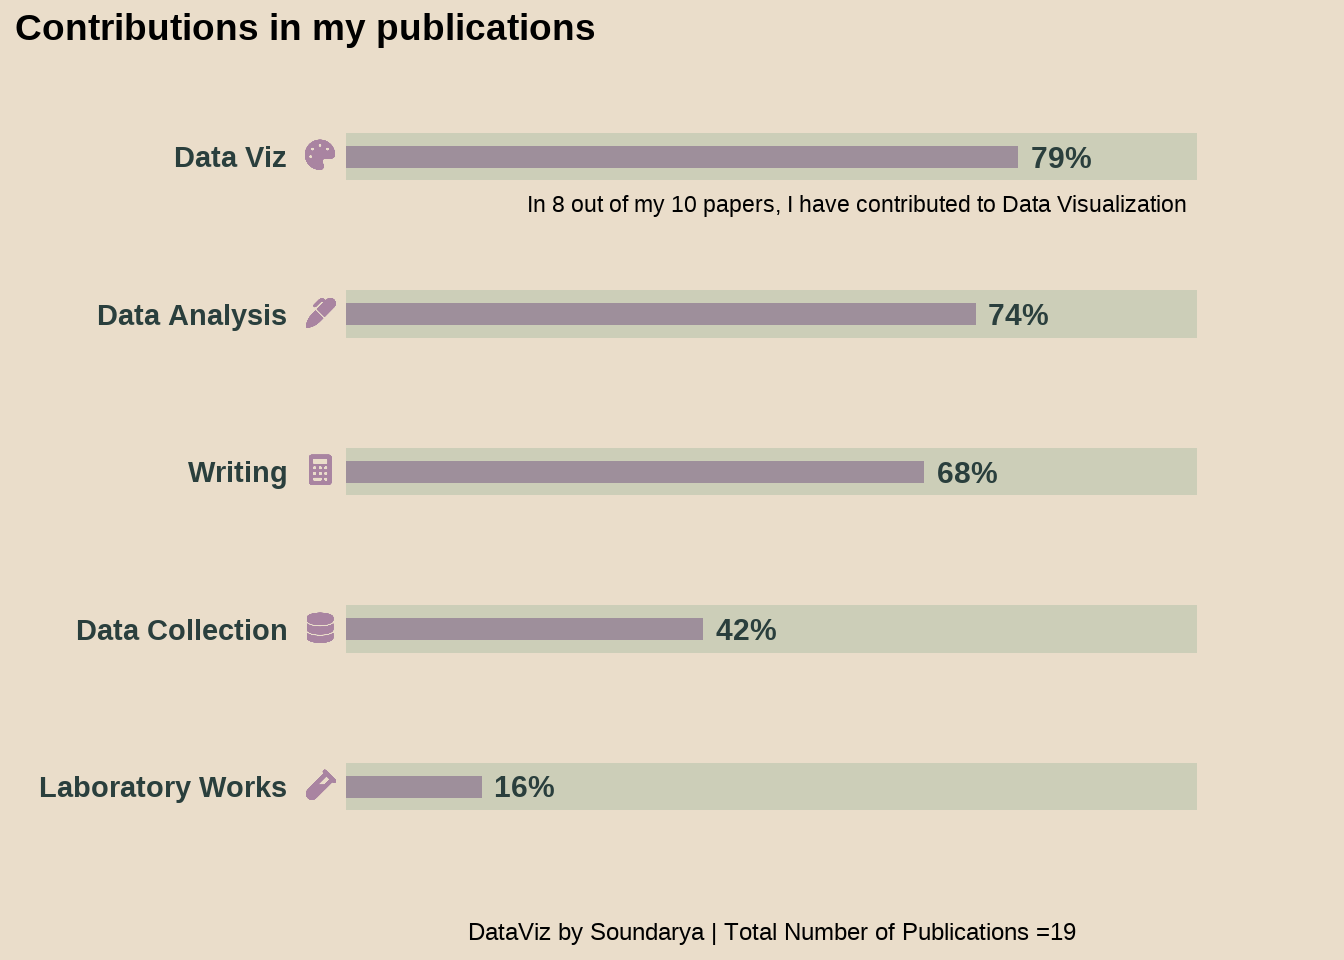
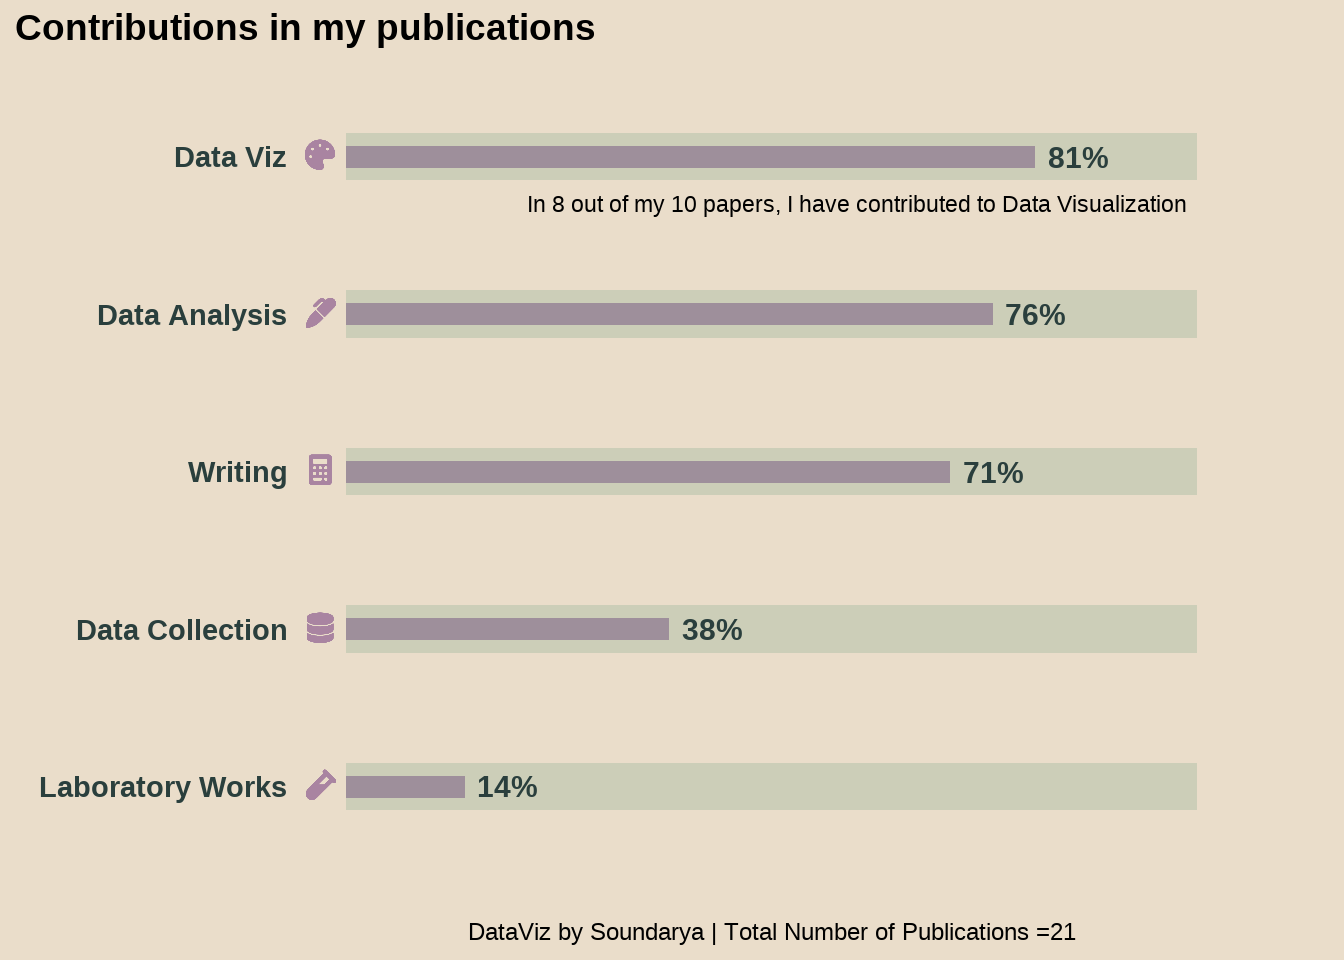
added mindfulness and clim change cvd preprints and obesity oxistress from work citation updated

diff --git a/_site/publications.html b/_site/publications.html
@@ -198,8 +198,27 @@ div.csl-indent {
 <svg aria-hidden="true" role="img" viewbox="0 0 512 512" style="height:1em;width:1em;vertical-align:-0.125em;margin-left:auto;margin-right:auto;font-size:inherit;fill:#a984a1;overflow:visible;position:relative;"><path d="M481 31C445.1-4.8 386.9-4.8 351 31l-15 15L322.9 33C294.8 4.9 249.2 4.9 221.1 33L135 119c-9.4 9.4-9.4 24.6 0 33.9s24.6 9.4 33.9 0L255 66.9c9.4-9.4 24.6-9.4 33.9 0L302.1 80 186.3 195.7 316.3 325.7 481 161c35.9-35.9 35.9-94.1 0-129.9zM293.7 348.3L163.7 218.3 99.5 282.5c-48 48-80.8 109.2-94.1 175.8l-5 25c-1.6 7.9 .9 16 6.6 21.7s13.8 8.1 21.7 6.6l25-5c66.6-13.3 127.8-46.1 175.8-94.1l64.2-64.2z"></path></svg>
 </div>
 </div>
-</div></div><ol start="19" type="1">
-<li>Survival analysis shows tuberculosis patients with silicosis experience earlier mortality and need employer-led care models in occupational settings in India <span class="citation" data-cites="RupaniSurvivalanalysis2024">(<a href="#ref-RupaniSurvivalanalysis2024" role="doc-biblioref">Rupani and Soundararajan 2024</a>)</span>.</li>
+</div></div><ol start="21" type="1">
+<li>Modelling the Relationship Between Extreme Temperature Metrics and Cardiovascular Disease Burden in India: Insights from a Multi-State Study on Climate Change Challenges for 2011 -2019 <a href="https://papers.ssrn.com/sol3/papers.cfm?abstract_id=5140985">Preprint</a><span class="citation" data-cites="SoundararajanModellingRelationship2024">(<a href="#ref-SoundararajanModellingRelationship2024" role="doc-biblioref">Soundararajan et al., n.d.</a>)</span></li>
+</ol>
+<div>
+
+</div>
+
+<div class="no-row-height column-margin column-container"><div class="cell quarto-layout-panel" data-layout-nrow="1">
+<div class="quarto-layout-row">
+<div class="quarto-layout-cell" style="flex-basis: 33.3%;justify-content: flex-start;">
+<svg aria-hidden="true" role="img" viewbox="0 0 384 512" style="height:1em;width:0.75em;vertical-align:-0.125em;margin-left:auto;margin-right:auto;font-size:inherit;fill:#a984a1;overflow:visible;position:relative;"><path d="M64 0C28.7 0 0 28.7 0 64V448c0 35.3 28.7 64 64 64H320c35.3 0 64-28.7 64-64V64c0-35.3-28.7-64-64-64H64zM96 64H288c17.7 0 32 14.3 32 32v32c0 17.7-14.3 32-32 32H96c-17.7 0-32-14.3-32-32V96c0-17.7 14.3-32 32-32zm32 160a32 32 0 1 1 -64 0 32 32 0 1 1 64 0zM96 352a32 32 0 1 1 0-64 32 32 0 1 1 0 64zM64 416c0-17.7 14.3-32 32-32h96c17.7 0 32 14.3 32 32s-14.3 32-32 32H96c-17.7 0-32-14.3-32-32zM192 256a32 32 0 1 1 0-64 32 32 0 1 1 0 64zm32 64a32 32 0 1 1 -64 0 32 32 0 1 1 64 0zm64-64a32 32 0 1 1 0-64 32 32 0 1 1 0 64zm32 64a32 32 0 1 1 -64 0 32 32 0 1 1 64 0zM288 448a32 32 0 1 1 0-64 32 32 0 1 1 0 64z"></path></svg>
+</div>
+<div class="quarto-layout-cell" style="flex-basis: 33.3%;justify-content: flex-start;">
+<svg aria-hidden="true" role="img" viewbox="0 0 512 512" style="height:1em;width:1em;vertical-align:-0.125em;margin-left:auto;margin-right:auto;font-size:inherit;fill:#a984a1;overflow:visible;position:relative;"><path d="M512 256c0 .9 0 1.8 0 2.7c-.4 36.5-33.6 61.3-70.1 61.3H344c-26.5 0-48 21.5-48 48c0 3.4 .4 6.7 1 9.9c2.1 10.2 6.5 20 10.8 29.9c6.1 13.8 12.1 27.5 12.1 42c0 31.8-21.6 60.7-53.4 62c-3.5 .1-7 .2-10.6 .2C114.6 512 0 397.4 0 256S114.6 0 256 0S512 114.6 512 256zM128 288a32 32 0 1 0 -64 0 32 32 0 1 0 64 0zm0-96a32 32 0 1 0 0-64 32 32 0 1 0 0 64zM288 96a32 32 0 1 0 -64 0 32 32 0 1 0 64 0zm96 96a32 32 0 1 0 0-64 32 32 0 1 0 0 64z"></path></svg>
+</div>
+<div class="quarto-layout-cell" style="flex-basis: 33.3%;justify-content: flex-start;">
+<svg aria-hidden="true" role="img" viewbox="0 0 512 512" style="height:1em;width:1em;vertical-align:-0.125em;margin-left:auto;margin-right:auto;font-size:inherit;fill:#a984a1;overflow:visible;position:relative;"><path d="M481 31C445.1-4.8 386.9-4.8 351 31l-15 15L322.9 33C294.8 4.9 249.2 4.9 221.1 33L135 119c-9.4 9.4-9.4 24.6 0 33.9s24.6 9.4 33.9 0L255 66.9c9.4-9.4 24.6-9.4 33.9 0L302.1 80 186.3 195.7 316.3 325.7 481 161c35.9-35.9 35.9-94.1 0-129.9zM293.7 348.3L163.7 218.3 99.5 282.5c-48 48-80.8 109.2-94.1 175.8l-5 25c-1.6 7.9 .9 16 6.6 21.7s13.8 8.1 21.7 6.6l25-5c66.6-13.3 127.8-46.1 175.8-94.1l64.2-64.2z"></path></svg>
+</div>
+</div>
+</div></div><ol start="20" type="1">
+<li>Effectiveness Of Mindfulness Interventions in Reducing Perceived Stress Among Nurses- A Systematic Review and Meta-Analysis <a href="https://www.researchsquare.com/article/rs-5720527/v1">Preprint</a> <span class="citation" data-cites="RamEffectivenessMindfulness2024">(<a href="#ref-RamEffectivenessMindfulness2024" role="doc-biblioref">Ram, Balachandar, and Soundararajan, n.d.</a>)</span></li>
 </ol>
 <div>
 
@@ -220,8 +239,27 @@ div.csl-indent {
 <svg aria-hidden="true" role="img" viewbox="0 0 512 512" style="height:1em;width:1em;vertical-align:-0.125em;margin-left:auto;margin-right:auto;font-size:inherit;fill:#a984a1;overflow:visible;position:relative;"><path d="M481 31C445.1-4.8 386.9-4.8 351 31l-15 15L322.9 33C294.8 4.9 249.2 4.9 221.1 33L135 119c-9.4 9.4-9.4 24.6 0 33.9s24.6 9.4 33.9 0L255 66.9c9.4-9.4 24.6-9.4 33.9 0L302.1 80 186.3 195.7 316.3 325.7 481 161c35.9-35.9 35.9-94.1 0-129.9zM293.7 348.3L163.7 218.3 99.5 282.5c-48 48-80.8 109.2-94.1 175.8l-5 25c-1.6 7.9 .9 16 6.6 21.7s13.8 8.1 21.7 6.6l25-5c66.6-13.3 127.8-46.1 175.8-94.1l64.2-64.2z"></path></svg>
 </div>
 </div>
+</div></div><ol start="19" type="1">
+<li>Obesity, Oxidative Stress, and the Moderating Role of Overcommitment: An Exploratory Analysis in Female Nurses from Western India. <span class="citation" data-cites="SinghObesityoxidative2025">(<a href="#ref-SinghObesityoxidative2025" role="doc-biblioref">Singh et al. 2025</a>)</span></li>
+</ol>
+<div>
+
+</div>
+
+<div class="no-row-height column-margin column-container"><div class="cell quarto-layout-panel" data-layout-nrow="1">
+<div class="quarto-layout-row">
+<div class="quarto-layout-cell" style="flex-basis: 33.3%;justify-content: flex-start;">
+<svg aria-hidden="true" role="img" viewbox="0 0 384 512" style="height:1em;width:0.75em;vertical-align:-0.125em;margin-left:auto;margin-right:auto;font-size:inherit;fill:#a984a1;overflow:visible;position:relative;"><path d="M64 0C28.7 0 0 28.7 0 64V448c0 35.3 28.7 64 64 64H320c35.3 0 64-28.7 64-64V64c0-35.3-28.7-64-64-64H64zM96 64H288c17.7 0 32 14.3 32 32v32c0 17.7-14.3 32-32 32H96c-17.7 0-32-14.3-32-32V96c0-17.7 14.3-32 32-32zm32 160a32 32 0 1 1 -64 0 32 32 0 1 1 64 0zM96 352a32 32 0 1 1 0-64 32 32 0 1 1 0 64zM64 416c0-17.7 14.3-32 32-32h96c17.7 0 32 14.3 32 32s-14.3 32-32 32H96c-17.7 0-32-14.3-32-32zM192 256a32 32 0 1 1 0-64 32 32 0 1 1 0 64zm32 64a32 32 0 1 1 -64 0 32 32 0 1 1 64 0zm64-64a32 32 0 1 1 0-64 32 32 0 1 1 0 64zm32 64a32 32 0 1 1 -64 0 32 32 0 1 1 64 0zM288 448a32 32 0 1 1 0-64 32 32 0 1 1 0 64z"></path></svg>
+</div>
+<div class="quarto-layout-cell" style="flex-basis: 33.3%;justify-content: flex-start;">
+<svg aria-hidden="true" role="img" viewbox="0 0 512 512" style="height:1em;width:1em;vertical-align:-0.125em;margin-left:auto;margin-right:auto;font-size:inherit;fill:#a984a1;overflow:visible;position:relative;"><path d="M512 256c0 .9 0 1.8 0 2.7c-.4 36.5-33.6 61.3-70.1 61.3H344c-26.5 0-48 21.5-48 48c0 3.4 .4 6.7 1 9.9c2.1 10.2 6.5 20 10.8 29.9c6.1 13.8 12.1 27.5 12.1 42c0 31.8-21.6 60.7-53.4 62c-3.5 .1-7 .2-10.6 .2C114.6 512 0 397.4 0 256S114.6 0 256 0S512 114.6 512 256zM128 288a32 32 0 1 0 -64 0 32 32 0 1 0 64 0zm0-96a32 32 0 1 0 0-64 32 32 0 1 0 0 64zM288 96a32 32 0 1 0 -64 0 32 32 0 1 0 64 0zm96 96a32 32 0 1 0 0-64 32 32 0 1 0 0 64z"></path></svg>
+</div>
+<div class="quarto-layout-cell" style="flex-basis: 33.3%;justify-content: flex-start;">
+<svg aria-hidden="true" role="img" viewbox="0 0 512 512" style="height:1em;width:1em;vertical-align:-0.125em;margin-left:auto;margin-right:auto;font-size:inherit;fill:#a984a1;overflow:visible;position:relative;"><path d="M481 31C445.1-4.8 386.9-4.8 351 31l-15 15L322.9 33C294.8 4.9 249.2 4.9 221.1 33L135 119c-9.4 9.4-9.4 24.6 0 33.9s24.6 9.4 33.9 0L255 66.9c9.4-9.4 24.6-9.4 33.9 0L302.1 80 186.3 195.7 316.3 325.7 481 161c35.9-35.9 35.9-94.1 0-129.9zM293.7 348.3L163.7 218.3 99.5 282.5c-48 48-80.8 109.2-94.1 175.8l-5 25c-1.6 7.9 .9 16 6.6 21.7s13.8 8.1 21.7 6.6l25-5c66.6-13.3 127.8-46.1 175.8-94.1l64.2-64.2z"></path></svg>
+</div>
+</div>
 </div></div><ol start="18" type="1">
-<li>Obesity, Oxidative Stress, and the Moderating Role of Overcommitment: An Exploratory Analysis in Female Nurses from Western India. https://doi.org/10.31219/osf.io/2uhkf <span class="citation" data-cites="singh2024">(<a href="#ref-singh2024" role="doc-biblioref">Singh et al. 2024</a>)</span></li>
+<li>Survival analysis shows tuberculosis patients with silicosis experience earlier mortality and need employer-led care models in occupational settings in India <span class="citation" data-cites="RupaniSurvivalanalysis2024">(<a href="#ref-RupaniSurvivalanalysis2024" role="doc-biblioref">Rupani and Soundararajan 2024</a>)</span>.</li>
 </ol>
 <div>
 
@@ -553,11 +591,14 @@ Klepp, T. D., M. E. Sloan, Soundarya Soundararajan, C. E. Ramsden, R. Cinar, M. 
 <div id="ref-mythri2017manganese1methyl4phenylpyridiniuminducedneurotoxicity" class="csl-entry" role="listitem">
 Mythri, Rajeswara Babu, Narayana Reddy Raghunath, Santosh Chandrakant Narwade, Mirazkar Dasharatha Rao Pandareesh, Kollarkandi Rajesh Sabitha, Mohamad Aiyaz, Bipin Chand, et al. 2017. <span>“Manganese- and 1-Methyl-4-Phenylpyridinium-Induced Neurotoxicity Display Differences in Morphological, Electrophysiological and Genome-Wide Alterations: Implications for Idiopathic Parkinson’s Disease.”</span> <em>Journal of Neurochemistry</em> 143 (3): 334–58. <a href="https://doi.org/10.1111/jnc.14147">https://doi.org/10.1111/jnc.14147</a>.
 </div>
+<div id="ref-RamEffectivenessMindfulness2024" class="csl-entry" role="listitem">
+Ram, Ekta, Rakesh Balachandar, and Soundarya Soundararajan. n.d. <span>“Effectiveness of Mindfulness Interventions in Reducing Perceived Stress Among Nurses- a Systematic Review and Meta-Analysis.”</span> <a href="https://doi.org/10.21203/rs.3.rs-5720527/v1">https://doi.org/10.21203/rs.3.rs-5720527/v1</a>.
+</div>
 <div id="ref-RupaniSurvivalanalysis2024" class="csl-entry" role="listitem">
 Rupani, Mihir P., and Soundarya Soundararajan. 2024. <span>“Survival Analysis Shows Tuberculosis Patients with Silicosis Experience Earlier Mortality and Need Employer-Led Care Models in Occupational Settings in India.”</span> <em>Scientific Reports</em> 14 (1): 28891. <a href="https://doi.org/10.1038/s41598-024-80367-5">https://doi.org/10.1038/s41598-024-80367-5</a>.
 </div>
-<div id="ref-singh2024" class="csl-entry" role="listitem">
-Singh, Gyanendra, Ankit Viramgami, Bela Makwana, Sukhdev Mishra, Viral Dave, and Soundarya Soundararajan. 2024. <em>Obesity, Oxidative Stress, and the Moderating Role of Overcommitment: An Exploratory Analysis in Female Nurses from Western India</em>. <a href="https://doi.org/10.31219/osf.io/2uhkf">https://doi.org/10.31219/osf.io/2uhkf</a>.
+<div id="ref-SinghObesityoxidative2025" class="csl-entry" role="listitem">
+Singh, Gyanendra, Ankit Viramgami, Bela Makwana, Sukhdev Mishra, Viral Dave, and Soundarya Soundararajan. 2025. <span>“Obesity, Oxidative Stress, and the Moderating Role of Overcommitment: An Exploratory Analysis in Female Nurses.”</span> <em>WORK</em>, March, 10519815251324000. <a href="https://doi.org/10.1177/10519815251324000">https://doi.org/10.1177/10519815251324000</a>.
 </div>
 <div id="ref-singh2024sleepqualitypotentiala" class="csl-entry" role="listitem">
 Singh, Gyanendra, Ankit Viramgami, Bela Makwana, Sukhdev Mishra, Tejal Padhariya, Viral Dave, and Soundarya Soundararajan. n.d. <span>“Sleep Quality <span></span> a Potential Link in the Relation Between Occupational Stress and Inflammation.”</span> <a href="https://doi.org/10.31234/osf.io/65dnw">https://doi.org/10.31234/osf.io/65dnw</a>.
@@ -570,6 +611,9 @@ Sloan, Matthew E., Joanna R. Sells, Courtney L. Vaughan, James K. Morris, Nancy 
 </div>
 <div id="ref-soundararajan2021changesdnamethylation" class="csl-entry" role="listitem">
 Soundararajan, Soundarya, Arpana Agrawal, Meera Purushottam, Shravanthi Daphne Anand, Bhagyalakshmi Shankarappa, Priyamvada Sharma, Sanjeev Jain, and Pratima Murthy. 2021. <span>“Changes in DNA Methylation Persist over Time in Males with Severe Alcohol Use Disorder-a Longitudinal Follow-up Study.”</span> <em>American Journal of Medical Genetics. Part B, Neuropsychiatric Genetics : The Official Publication of the International Society of Psychiatric Genetics</em> 186 (3): 183–92. <a href="https://doi.org/10.1002/ajmg.b.32833">https://doi.org/10.1002/ajmg.b.32833</a>.
+</div>
+<div id="ref-SoundararajanModellingRelationship2024" class="csl-entry" role="listitem">
+Soundararajan, Soundarya, Bhavani Shankara Bagepally, Jhalak Dhingra, Meghna P. Dinesh, Nimitha K, and Rakesh Balachandar. n.d. <span>“Modelling the Relationship Between Extreme Temperature Metrics and Cardiovascular Disease Burden in India: Insights from a Multi-State Study on Climate Change Challenges for 2011 -2019.”</span> <a href="https://doi.org/10.2139/ssrn.5140985">https://doi.org/10.2139/ssrn.5140985</a>.
 </div>
 <div id="ref-soundararajan2021faahcnr1polymorphisms" class="csl-entry" role="listitem">
 Soundararajan, Soundarya, Narjis Kazmi, Alyssa T. Brooks, Michael Krumlauf, Melanie L. Schwandt, David T. George, Colin A. Hodgkinson, Gwenyth R. Wallen, and Vijay A. Ramchandani. 2021. <span>“FAAH and CNR1 Polymorphisms in the Endocannabinoid System and Alcohol-Related Sleep Quality.”</span> <em>Frontiers in Psychiatry</em> 12: 1504. <a href="https://doi.org/10.3389/fpsyt.2021.712178">https://doi.org/10.3389/fpsyt.2021.712178</a>.
